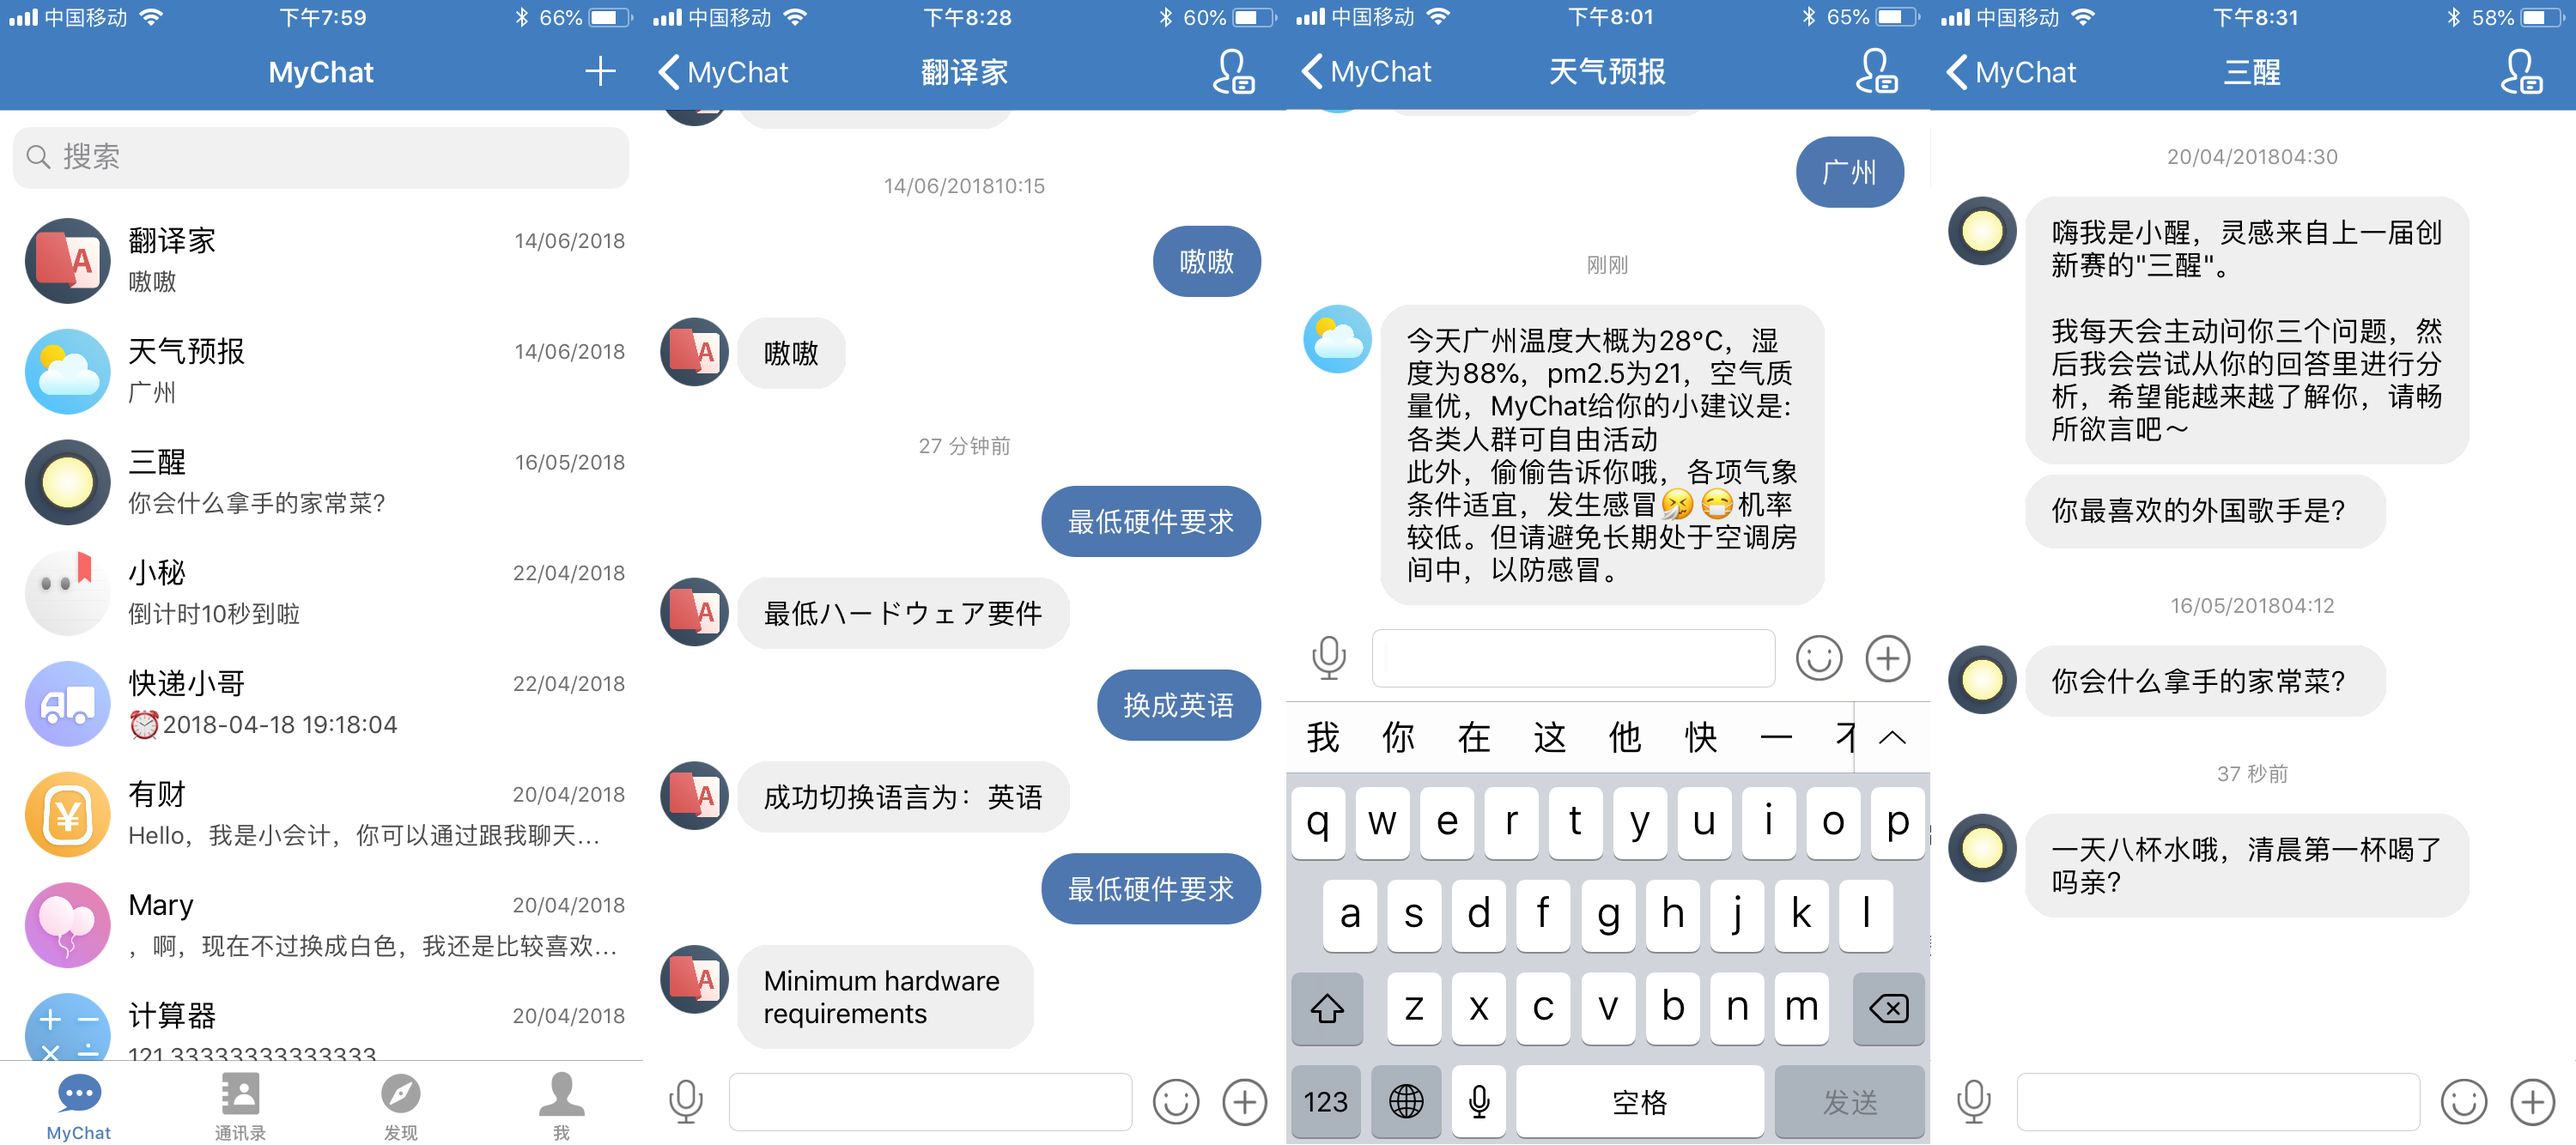
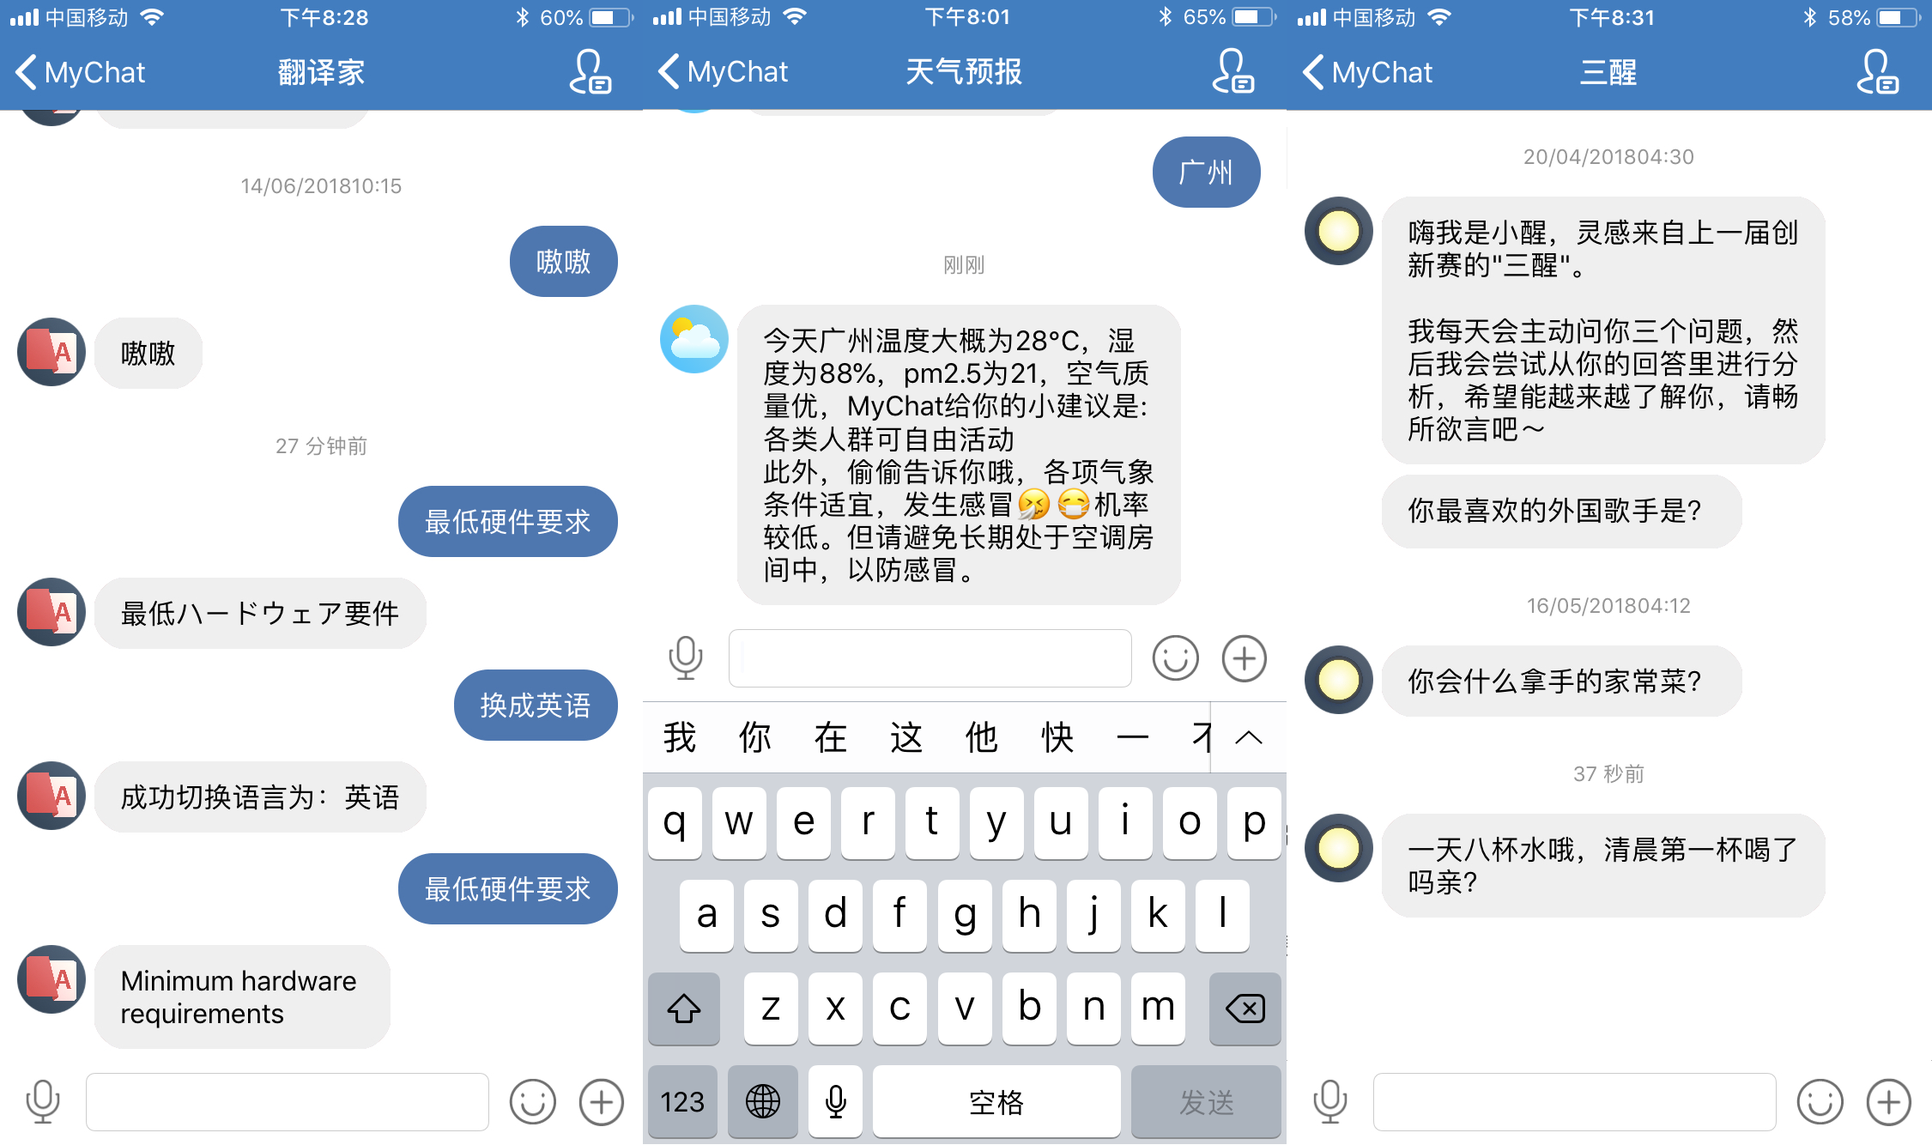
doc: update MyChat

diff --git a/_sass/atina/components/_post.scss b/_sass/atina/components/_post.scss
@@ -92,13 +92,13 @@
 
 img {
   &.middle {
-    width: 600px;
+    max-width: 600px;
   }
   &.middle-height {
-    height: 400px;
+    max-height: 500px;
   }
   &.small {
-    width: 200px;
+    max-width: 200px;
   }
 }
 

diff --git a/_posts/2020-03-10-MyChat.md b/_posts/2020-03-10-MyChat.md
@@ -1,11 +1,13 @@
 ---
 layout: post
 title:  "MyChat"
-subtitle:  "用户手册"
+subtitle:  "是一种生活方式"
 date:   2020-03-10 18:22:26 GMT+0800
 tags:
   - 作品集
 ---
+
+> 本文取自 2018 年 MyChat 用户手册。
 
 <div class="center-container">
   <img class="small" style="width: 120px;" src="/assets/images/posts/mychat/mychat-logo.png" alt="mychat-logo" />
@@ -62,8 +64,13 @@ MyChat是由中山大学“我觉得队”研发的一款**“增强自我”的
 当然，用户要习惯在 MyChat 里的好友其实都是机器人的事实。
 
 <div class="center-container">
-  <img class="middle-height" src="/assets/images/posts/mychat/添加新建好友.png" alt="添加新建好友" />
-  <div class="caption">添加/新建好友</div>
+  <img class="middle-height" src="/assets/images/posts/mychat/聊天列表.png" alt="聊天列表" />
+  <div class="caption">聊天列表</div>
+</div>
+
+<div class="center-container">
+  <img class="middle-height" src="/assets/images/posts/mychat/聊天页面.png" alt="聊天页面" />
+  <div class="caption">聊天页面</div>
 </div>
 
 ### 输入方式
